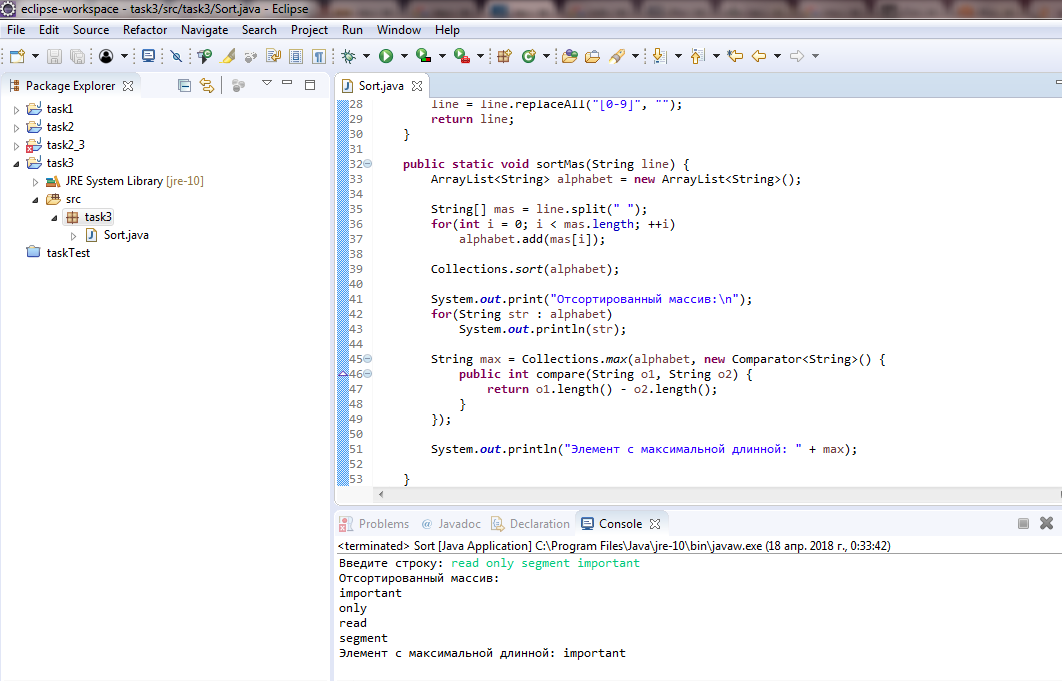
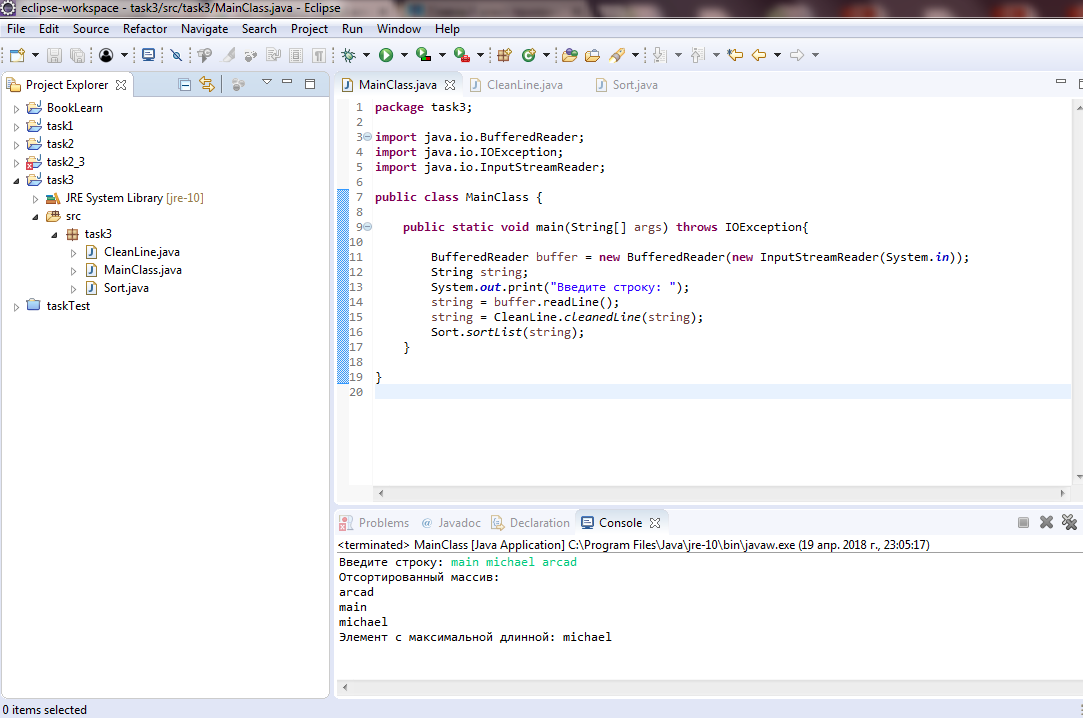
rework

Changed region(s): [[0.0, 0.0, 1.0, 1.0], [0.404, 0.5242, 0.839, 0.5859]]

diff --git a/task3_1/Sort.java b/task3_1/Sort.java
@@ -1,0 +1,28 @@
+package task3_1;
+
+import java.util.ArrayList;
+import java.util.Collections;
+import java.util.Comparator;
+
+public class Sort {
+	 public static void sortList(String line) {
+	        ArrayList<String> alphabet = new ArrayList<String>();          
+	        
+	        String[] mas = line.split(" ");
+	        for(int i = 0; i < mas.length; ++i)
+	            alphabet.add(mas[i]);                                       
+	        
+	        Collections.sort(alphabet);                                          
+	        
+	        System.out.print("Sorted array:\n");
+	        for(String str : alphabet)                                         
+	            System.out.println(str); 
+	        String max = Collections.max(alphabet, new Comparator<String>() {
+	            public int compare(String o1, String o2) {
+	                return o1.length() - o2.length();
+	            }
+	        });
+
+	        System.out.println("Element with maximum length: " + max);
+	        }
+	 }

diff --git a/task3_3/Bouquet.java b/task3_3/Bouquet.java
@@ -1,0 +1,29 @@
+package task3_3;
+
+import java.util.ArrayList;
+import java.util.List;
+
+public class Bouquet{
+    public int totalPrice = 0;
+    private List<Flower> objectArray = new ArrayList<Flower>();
+    
+    Bouquet(){}
+       
+    void addBouquet(Flower object){
+        objectArray.add(object);  
+    }
+    
+    void printChecks(){
+        System.out.println("Value \t Price");
+        
+        for(int i = 0; i < objectArray.size(); i++){
+            Flower object = objectArray.get(i);
+            String name = object.getName();
+            int price = object.getPrice();
+            System.out.println(name + " \t " + price);
+            totalPrice += price;                        
+        }
+        
+        System.out.println("Total \t " + totalPrice);
+    }
+}

diff --git a/task3_3/Flower.java b/task3_3/Flower.java
@@ -1,0 +1,27 @@
+package task3_3;
+
+public class Flower{
+	private String flowerName;
+    private int flowerPrice = 0;    
+    
+    Flower(String fName, int price){
+        this.setPrice(price);
+        this.setName(fName);
+    }
+    
+    public void setName(String name){
+        flowerName = name;
+    }
+    
+    public String getName(){
+        return flowerName;
+    }
+    
+    public void setPrice(int price){
+        flowerPrice = price;
+    }
+    
+    public int getPrice(){
+        return flowerPrice;
+    }
+}

diff --git a/task3_2/MainClass.java b/task3_2/MainClass.java
@@ -1,0 +1,20 @@
+package task3_2;
+
+public class MainClass {
+	    public static void main(String[] args) {
+	    	int number = RandomNumber.getNumber();
+	    	System.out.println("Number: " + number);
+	    	int sum = 0;
+	    	int currentDigit;
+	    	currentDigit = number % 10;
+	    	sum = sum + currentDigit;
+	    	number = number / 10;
+	    	currentDigit = number % 10;
+	    	sum = sum + currentDigit;
+	    	number = number / 10;
+	    	sum = sum + number;
+	    	System.out.println("Sum: " + sum);
+	    }
+	      
+	}
+

diff --git a/task3_1/MainClass.java b/task3_1/MainClass.java
@@ -1,0 +1,20 @@
+package task3_1;
+
+import java.io.BufferedReader;
+import java.io.IOException;
+import java.io.InputStreamReader;
+
+public class MainClass {
+ 
+    public static void main(String[] args) throws IOException{
+        
+        BufferedReader buffer = new BufferedReader(new InputStreamReader(System.in));
+        String string;
+        System.out.print("Enter string: ");
+        string = buffer.readLine();
+        string = CleanLine.cleanedLine(string);
+        Sort.sortList(string);
+    }
+    
+}
+   

diff --git a/task3_3/MainClass.java b/task3_3/MainClass.java
@@ -1,0 +1,18 @@
+package task3_3;
+
+public class MainClass {
+    public static void main(String[] args){
+        Bouquet bouquet = new Bouquet();
+        
+        Flower rose = new Flower("rose", 100);
+        bouquet.addBouquet(rose);
+        
+        Flower tulip = new Flower("tulip", 50);
+        bouquet.addBouquet(tulip);
+        
+        Flower rose_2 = new Flower("rose", 200);
+        bouquet.addBouquet(rose_2);
+        
+        bouquet.printChecks();
+    }
+}

diff --git a/task3_1/CleanLine.java b/task3_1/CleanLine.java
@@ -1,0 +1,11 @@
+package task3_1;
+
+public class CleanLine {
+public static String cleanedLine(String line) {
+        
+        line = line.replaceAll("\\p{Punct}", "");        
+        line = line.replaceAll("[0-9]", "");                    
+        return line;
+    }
+
+}

diff --git a/task3_2/RandomNumber.java b/task3_2/RandomNumber.java
@@ -1,0 +1,11 @@
+package task3_2;
+
+import java.util.Random;
+
+public class RandomNumber {
+	public static int getNumber() {
+		Random rnd = new Random(System.currentTimeMillis());
+		int number = 100 + rnd.nextInt(999-100);
+		return number;
+	}
+}
